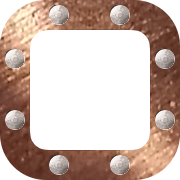
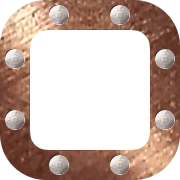
Fixed abrupt transitions in copper porthole border

diff --git a/supporting/styles.css b/supporting/styles.css
@@ -50,11 +50,11 @@ th {
 	height: 120px;
 	text-align: center;
 	
-	padding: 9px;
+	padding: 0px;
 	border: 10px solid transparent;
 	border-image-source: url("http://students.washington.edu/mjstyczi/images/porthole_border_Cu.png");
 	border-image-slice: 60;
-	border-image-width: 4;
+	border-image-width: 35px;
 	border-image-outset: 0;
 	border-image-repeat: round;
 	
@@ -238,11 +238,11 @@ th {
 	background-repeat: no-repeat;
 	background-position: center;
 	
-	padding: 9px;
+	padding: 5px;
 	border: 10px solid transparent;
 	border-image-source: url("http://students.washington.edu/mjstyczi/images/porthole_border_Cu.png");
 	border-image-slice: 60;
-	border-image-width: 4;
+	border-image-width: 35px;
 	border-image-outset: 0;
 	border-image-repeat: round;
 }
